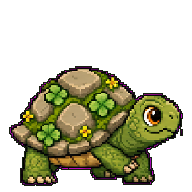
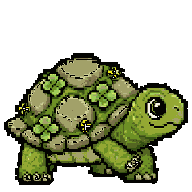
Refaz contorno da Tartaruga e registra sistema de runas (#46)
Limpa a leitura visual da Tartaruga e documenta os oito slots de craft com runas obtidas de monstros.

diff --git a/public/demo64/game-original.js b/public/demo64/game-original.js
@@ -175,9 +175,9 @@
     this.load.image('cursed-scarecrow-idle', A + 'creatures/campo/cursed_scarecrow/idle.png?v=small1');
     this.load.spritesheet('cursed-scarecrow-walk', A + 'creatures/campo/cursed_scarecrow/walk.png?v=small1', { frameWidth: 192, frameHeight: 192 });
     this.load.spritesheet('cursed-scarecrow-attack', A + 'creatures/campo/cursed_scarecrow/attack.png?v=small1', { frameWidth: 192, frameHeight: 192 });
-    this.load.image('meadow-turtle-idle', A + 'creatures/campo/meadow_turtle/idle.png?v=outline1');
-    this.load.spritesheet('meadow-turtle-walk', A + 'creatures/campo/meadow_turtle/walk.png?v=outline1', { frameWidth: 192, frameHeight: 192 });
-    this.load.spritesheet('meadow-turtle-attack', A + 'creatures/campo/meadow_turtle/attack.png?v=outline1', { frameWidth: 192, frameHeight: 192 });
+    this.load.image('meadow-turtle-idle', A + 'creatures/campo/meadow_turtle/idle.png?v=outline2');
+    this.load.spritesheet('meadow-turtle-walk', A + 'creatures/campo/meadow_turtle/walk.png?v=outline2', { frameWidth: 192, frameHeight: 192 });
+    this.load.spritesheet('meadow-turtle-attack', A + 'creatures/campo/meadow_turtle/attack.png?v=outline2', { frameWidth: 192, frameHeight: 192 });
     this.load.image('deer-king-idle', A + 'creatures/campo/deer_king/idle.png?v=cartoon1');
     this.load.image('deer-king-enraged', A + 'creatures/campo/deer_king/enraged.png?v=polish1');
     this.load.spritesheet('deer-king-walk', A + 'creatures/campo/deer_king/walk.png?v=walk3', { frameWidth: 256, frameHeight: 256 });

diff --git a/public/demo64/game.js b/public/demo64/game.js
@@ -1,7 +1,7 @@
 /* GameRPG loader */
 (function () {
   const script = document.createElement('script');
-  script.src = './game-original.js?v=ogre-size-drop-test-v1';
+  script.src = './game-original.js?v=turtle-outline-v2';
   script.onerror = () => console.error('[GameRPG] Falha ao carregar o jogo principal.');
   document.head.appendChild(script);
 })();

diff --git a/public/demo64/index.html b/public/demo64/index.html
@@ -604,6 +604,6 @@ addEventListener('keydown', e => {
   sync();
 })();
 </script>
-<script src="game.js?v=ogre-size-drop-test-v1"></script>
+<script src="game.js?v=turtle-outline-v2"></script>
 </body>
 </html>

diff --git a/docs/RUNES.md b/docs/RUNES.md
@@ -1,0 +1,26 @@
+# Sistema de Runas
+
+## Decisões estabelecidas
+
+- Todo item terá **8 slots de craft**.
+- Os slots poderão receber **runas**.
+- Cada runa adicionará **atributos ou efeitos** ao item em que for aplicada.
+- As runas serão obtidas como **drops de monstros**.
+- O sistema deverá funcionar com armas, armaduras e demais itens compatíveis com craft.
+
+## Direção de design
+
+O sistema deve transformar os equipamentos em bases personalizáveis. O item define sua identidade e comportamento principal; as oito runas permitem especializar seus atributos sem substituir essa identidade.
+
+As probabilidades normais de drop precisam continuar separadas do botão temporário `DROP 100%`, que existe apenas para testes.
+
+## Pontos para a próxima fase
+
+- categorias e raridades das runas;
+- atributos possíveis e limites por item;
+- runas exclusivas de monstros, biomas ou chefes;
+- regras para inserir, remover e substituir runas;
+- custos do craft;
+- combinações, bônus de conjunto e conflitos;
+- apresentação dos oito slots no inventário;
+- persistência e salvamento das runas aplicadas.
